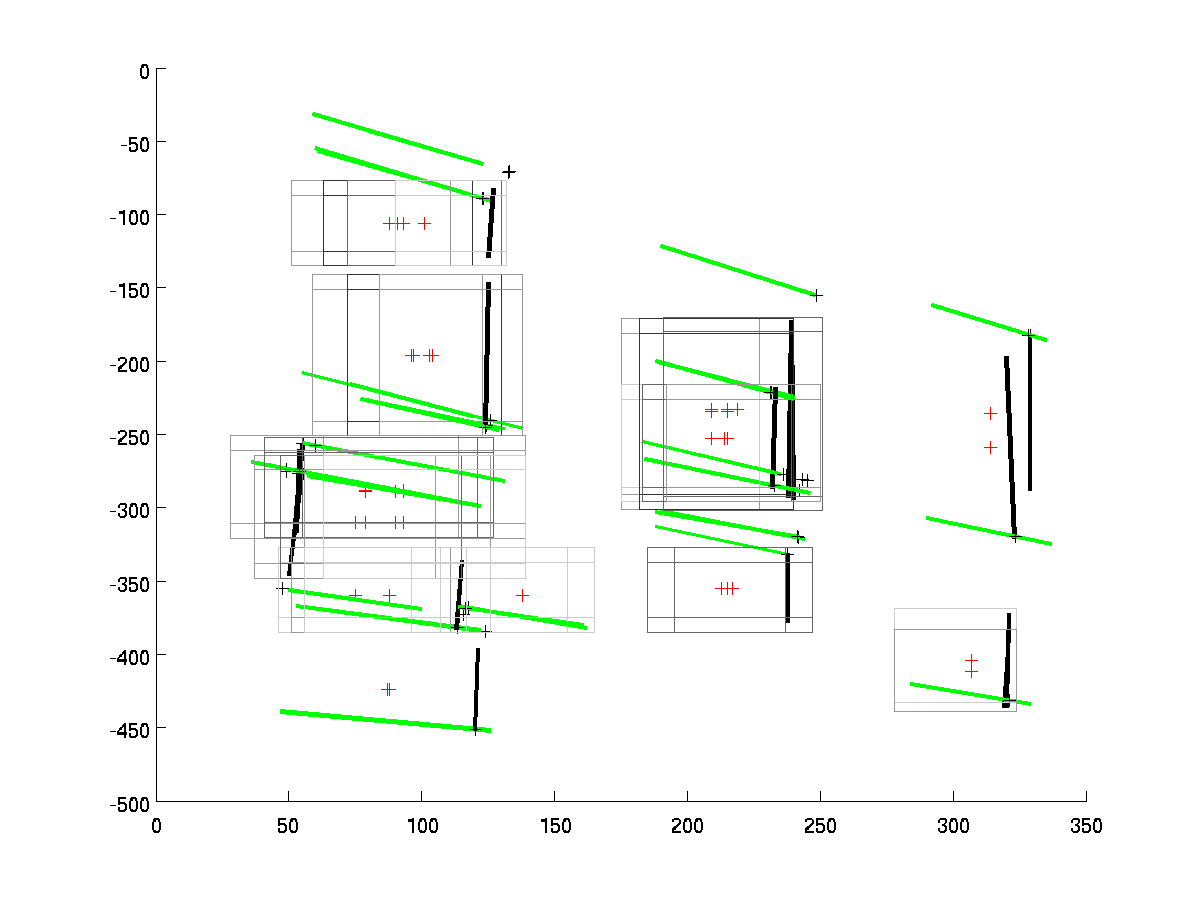
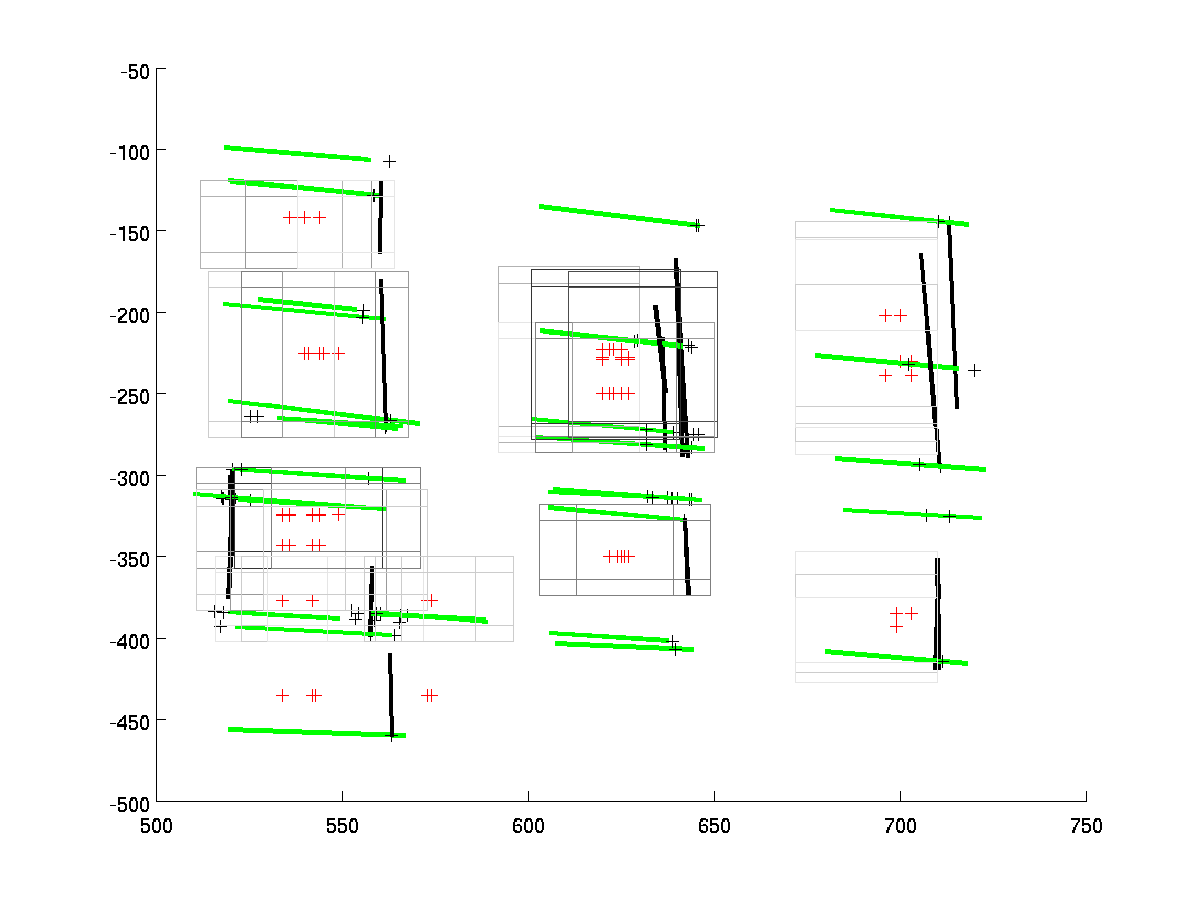
a

diff --git a/doorWindow/houghRect.m b/doorWindow/houghRect.m
@@ -1,51 +1,36 @@
 close all;
 clear WindowsMerged
 % load projected
-%load('../project2Normal/Houghlines.mat');
-%load('../project2Normal/HoughlinesRot.mat');
+load('../project2Normal/Houghlines.mat');
+load('../project2Normal/HoughlinesRot.mat');
+% todo remove Y bug in output of project2normal
+Houghlines = scaleHoughlines(Houghlines,1000);
+HoughlinesRot = scaleHoughlines(HoughlinesRot,1000);
+
+%load('mats/Houghlines_floriande5447.mat');
+%load('mats/HoughlinesRot_floriande5447.mat');
 
 
-load('mats/Houghlines_floriande5447.mat');
-load('mats/HoughlinesRot_floriande5447.mat');
 plotme = 1;
 %cornerInlierThreshold = 0.025
 cornerInlierThreshold = 20;
+cornerInlierThreshold = 35;
+disp('getting cCorners..')
 Houghlines = getcCorner(Houghlines,HoughlinesRot,cornerInlierThreshold, plotme);
 % TODO fix scaleup for scales =! 1
-cornerScaleAccu = getCorners(plotme);
-
-
-cCornerHarrisThreshold = 30; scale = 1;
+%disp('getting Harris corners..')
+%cornerScaleAccu = getCorners(plotme);
+%cCornerHarrisThreshold = 30; scale = 1;
 % loop through Harris features and add evidence for close cCorners
-Houghlines = cCornerHarrisEvidence(Houghlines, cornerScaleAccu, scale, cCornerHarrisThreshold);
+%disp('filtering on Harris corners..')
+%Houghlines = cCornerHarrisEvidence(Houghlines, cornerScaleAccu, scale, cCornerHarrisThreshold);
 fg = figure(3);clf;hold on;
 plotme = 0;
+disp('cCornerToWindow..');
 [Houghlines, Windows, WindowsIm] = cCornerToWindow(Houghlines,HoughlinesRot,plotme);
 
-
-
-%i =29 interesting case
-% plot cCorners nicely
-for i=1:length(Houghlines)
-	for k=1:length(Houghlines(i).cCorners)
-		cCorner = Houghlines(i).cCorners(k);
-		% type is upper right l shape
-		%if cCorner.HdirectionRight == 0 && cCorner.VdirectionUp == 1
-		%	% plot vertical line
-		%	plotHoughlineShort(Houghlines(i),1, 'black');
-		%	% plot horizontally connected lines
-		%	plotcCorner(i, k, Houghlines, HoughlinesRot, 'red');
-		%elseif cCorner.HdirectionRight == 0 && cCorner.VdirectionUp == 0
-		%	% plot vertical line
-		%	plotHoughlineShort(Houghlines(i),1, 'black');
-		%	% plot horizontally connected lines
-		%	plotcCorner(i, k, Houghlines, HoughlinesRot, 'green');
-		%end
-		plotHoughlineShort(Houghlines(i),1, 'black');
-		plotcCorner(i, k, Houghlines, HoughlinesRot, 'green');
-	end
-end
-
+disp('plot cCorners..');
+plotcCorners(Houghlines,HoughlinesRot)
 
 
 % creates X and Y coords for a nxn filter
@@ -54,7 +39,7 @@ X = repmat(-h:h,1,n);
 Y = reshape(reshape(X,n,n)',1,n*n);
 
 w = 1;
-stepSize = 5;
+stepSize = 15;
 paramStr = ['slidingWindow_Size_',num2str(n),'_StepSize_',num2str(stepSize)]
 % generete ranges of x,y position sliding window
 % sliding window starts at h+1
@@ -86,8 +71,6 @@ for i=h+1:stepSize:size(Windows,1)-h
 		end
 	end
 end
-
-pause;
 
 % determine max nr of windows
 nrWindowsMax = 0;

diff --git a/doorWindow/cCornerToWindow.m b/doorWindow/cCornerToWindow.m
@@ -5,48 +5,46 @@ for i=1:length(Houghlines)
 		cCorner = Houghlines(i).cCorners(k);
 		% if corner has nearby harris
 		%if cCorner.harrisEvidence == true
-			%if cCorner.HdirectionRight == 0 && cCorner.VdirectionUp == 1
-			%if cCorner.shapeType == 'l'
+		%if cCorner.HdirectionRight == 0 && cCorner.VdirectionUp == 1
+		%if cCorner.shapeType == 'l'
 
-			a = Houghlines(i).point1;
-			b = Houghlines(i).point2;
-			c = HoughlinesRot(cCorner.HoughlineRotIdx).point1;
-			d = HoughlinesRot(cCorner.HoughlineRotIdx).point2;
+		a = Houghlines(i).point1;
+		b = Houghlines(i).point2;
+		c = HoughlinesRot(cCorner.HoughlineRotIdx).point1;
+		d = HoughlinesRot(cCorner.HoughlineRotIdx).point2;
 
-			% calc midpoint vert line
-			xyAvgV = (a + b) / 2;
-			% calc midpoint hor line
-			xyAvgH = (c + d) / 2;
-			% the window is calculated by taking the x of the horizontal line segment and taking the y of the vertical line segment
-			yWindow = round(xyAvgV(2));
-			xWindow = round(xyAvgH(1));
+		% calc midpoint vert line
+		xyAvgV = (a + b) / 2;
+		% calc midpoint hor line
+		xyAvgH = (c + d) / 2;
+		% the window is calculated by taking the x of the horizontal line segment and taking the y of the vertical line segment
+		yWindow = round(xyAvgV(2));
+		xWindow = round(xyAvgH(1));
 
-			xyWindow= [xWindow;yWindow];
+		xyWindow= [xWindow;yWindow];
 
-			Houghlines(i).cCorners(k).xyWindow = [xWindow, yWindow];
-			% plot middlepoint of window
-			plot(xWindow, -yWindow, '+r');
+		Houghlines(i).cCorners(k).xyWindow = [xWindow, yWindow];
+		% plot middlepoint of window
+		plot(xWindow, -yWindow, '+r');
+
+		h = abs(a(2) - b(2));
+		w = abs(c(1) - d(1));
+
+		% TODO how to deal with multiple window on same location
+		% TODO faster: make array of window idx'es
+		%215,234
+		Windows{xWindow,yWindow}.window  = 1;
+		Windows{xWindow,yWindow}.height  = h;
+		Windows{xWindow,yWindow}.width   = w;
+		Windows{xWindow,yWindow}.hw      = [h;w];
+
+		WindowsIm(yWindow,xWindow) = 1;
 
 
-			h = abs(a(2) - b(2));
-			w = abs(c(1) - d(1));
-
-			% TODO how to deal with multiple window on same location
-			% TODO faster: make array of window idx'es
-			%215,234
-			Windows{xWindow,yWindow}.window  = 1;
-			Windows{xWindow,yWindow}.height  = h;
-			Windows{xWindow,yWindow}.width   = w;
-			Windows{xWindow,yWindow}.hw      = [h;w];
-
-			WindowsIm(yWindow,xWindow) = 1;
-
-
-			if plotme 
-				plotWindow(xWindow,yWindow,h,w)
-			end
-
+		%if plotme 
+		%	plotWindow(xWindow,yWindow,h,w)
 		%end
+
 
 	end
 end

diff --git a/doorWindow/aux/plotcCorners.m b/doorWindow/aux/plotcCorners.m
@@ -1,0 +1,22 @@
+function plotcCorners(Houghlines,HoughlinesRot)
+% plot cCorners nicely
+for i=1:length(Houghlines)
+	for k=1:length(Houghlines(i).cCorners)
+		cCorner = Houghlines(i).cCorners(k);
+		% type is upper right l shape
+		%if cCorner.HdirectionRight == 0 && cCorner.VdirectionUp == 1
+		%	% plot vertical line
+		%	plotHoughlineShort(Houghlines(i),1, 'black');
+		%	% plot horizontally connected lines
+		%	plotcCorner(i, k, Houghlines, HoughlinesRot, 'red');
+		%elseif cCorner.HdirectionRight == 0 && cCorner.VdirectionUp == 0
+		%	% plot vertical line
+		%	plotHoughlineShort(Houghlines(i),1, 'black');
+		%	% plot horizontally connected lines
+		%	plotcCorner(i, k, Houghlines, HoughlinesRot, 'green');
+		%end
+		plotHoughlineShort(Houghlines(i),1, 'black');
+		plotcCorner(i, k, Houghlines, HoughlinesRot, 'green');
+	end
+end
+

diff --git a/doorWindow/scaleHoughlines.m b/doorWindow/scaleHoughlines.m
@@ -1,0 +1,10 @@
+% scales points in houghlines
+% also inverts Y
+function Houghlines = scaleHoughlines(Houghlines,scale);
+for i=1:length(Houghlines)
+	Houghlines(i).point1 = Houghlines(i).point1 * scale;
+	Houghlines(i).point2 = Houghlines(i).point2 * scale;
+	% add Y coord to prevent negative values
+	Houghlines(i).point1 = Houghlines(i).point1 + [0, 586];
+	Houghlines(i).point2 = Houghlines(i).point2 + [0, 586];
+end

diff --git a/project2Normal/project2squareHough.m b/project2Normal/project2squareHough.m
@@ -13,7 +13,6 @@ tic;
 
 % % the y axis is inverted because matlab plots upside down
 % % this is to flip the y axis 
-yHeight = 200;
 % TODO Check wallnr
 wallNr = 7;
 imNr = 3;
@@ -49,7 +48,6 @@ for k = 1:length(Houghlines)
 	
 	X = [X,xy1Proj(1),xy2Proj(1)];
 	Y = [Y,xy1Proj(2),xy2Proj(2)];
-	% TODO save in Houghlines format and plot with plotHoughlines
 end
 
 figure;
